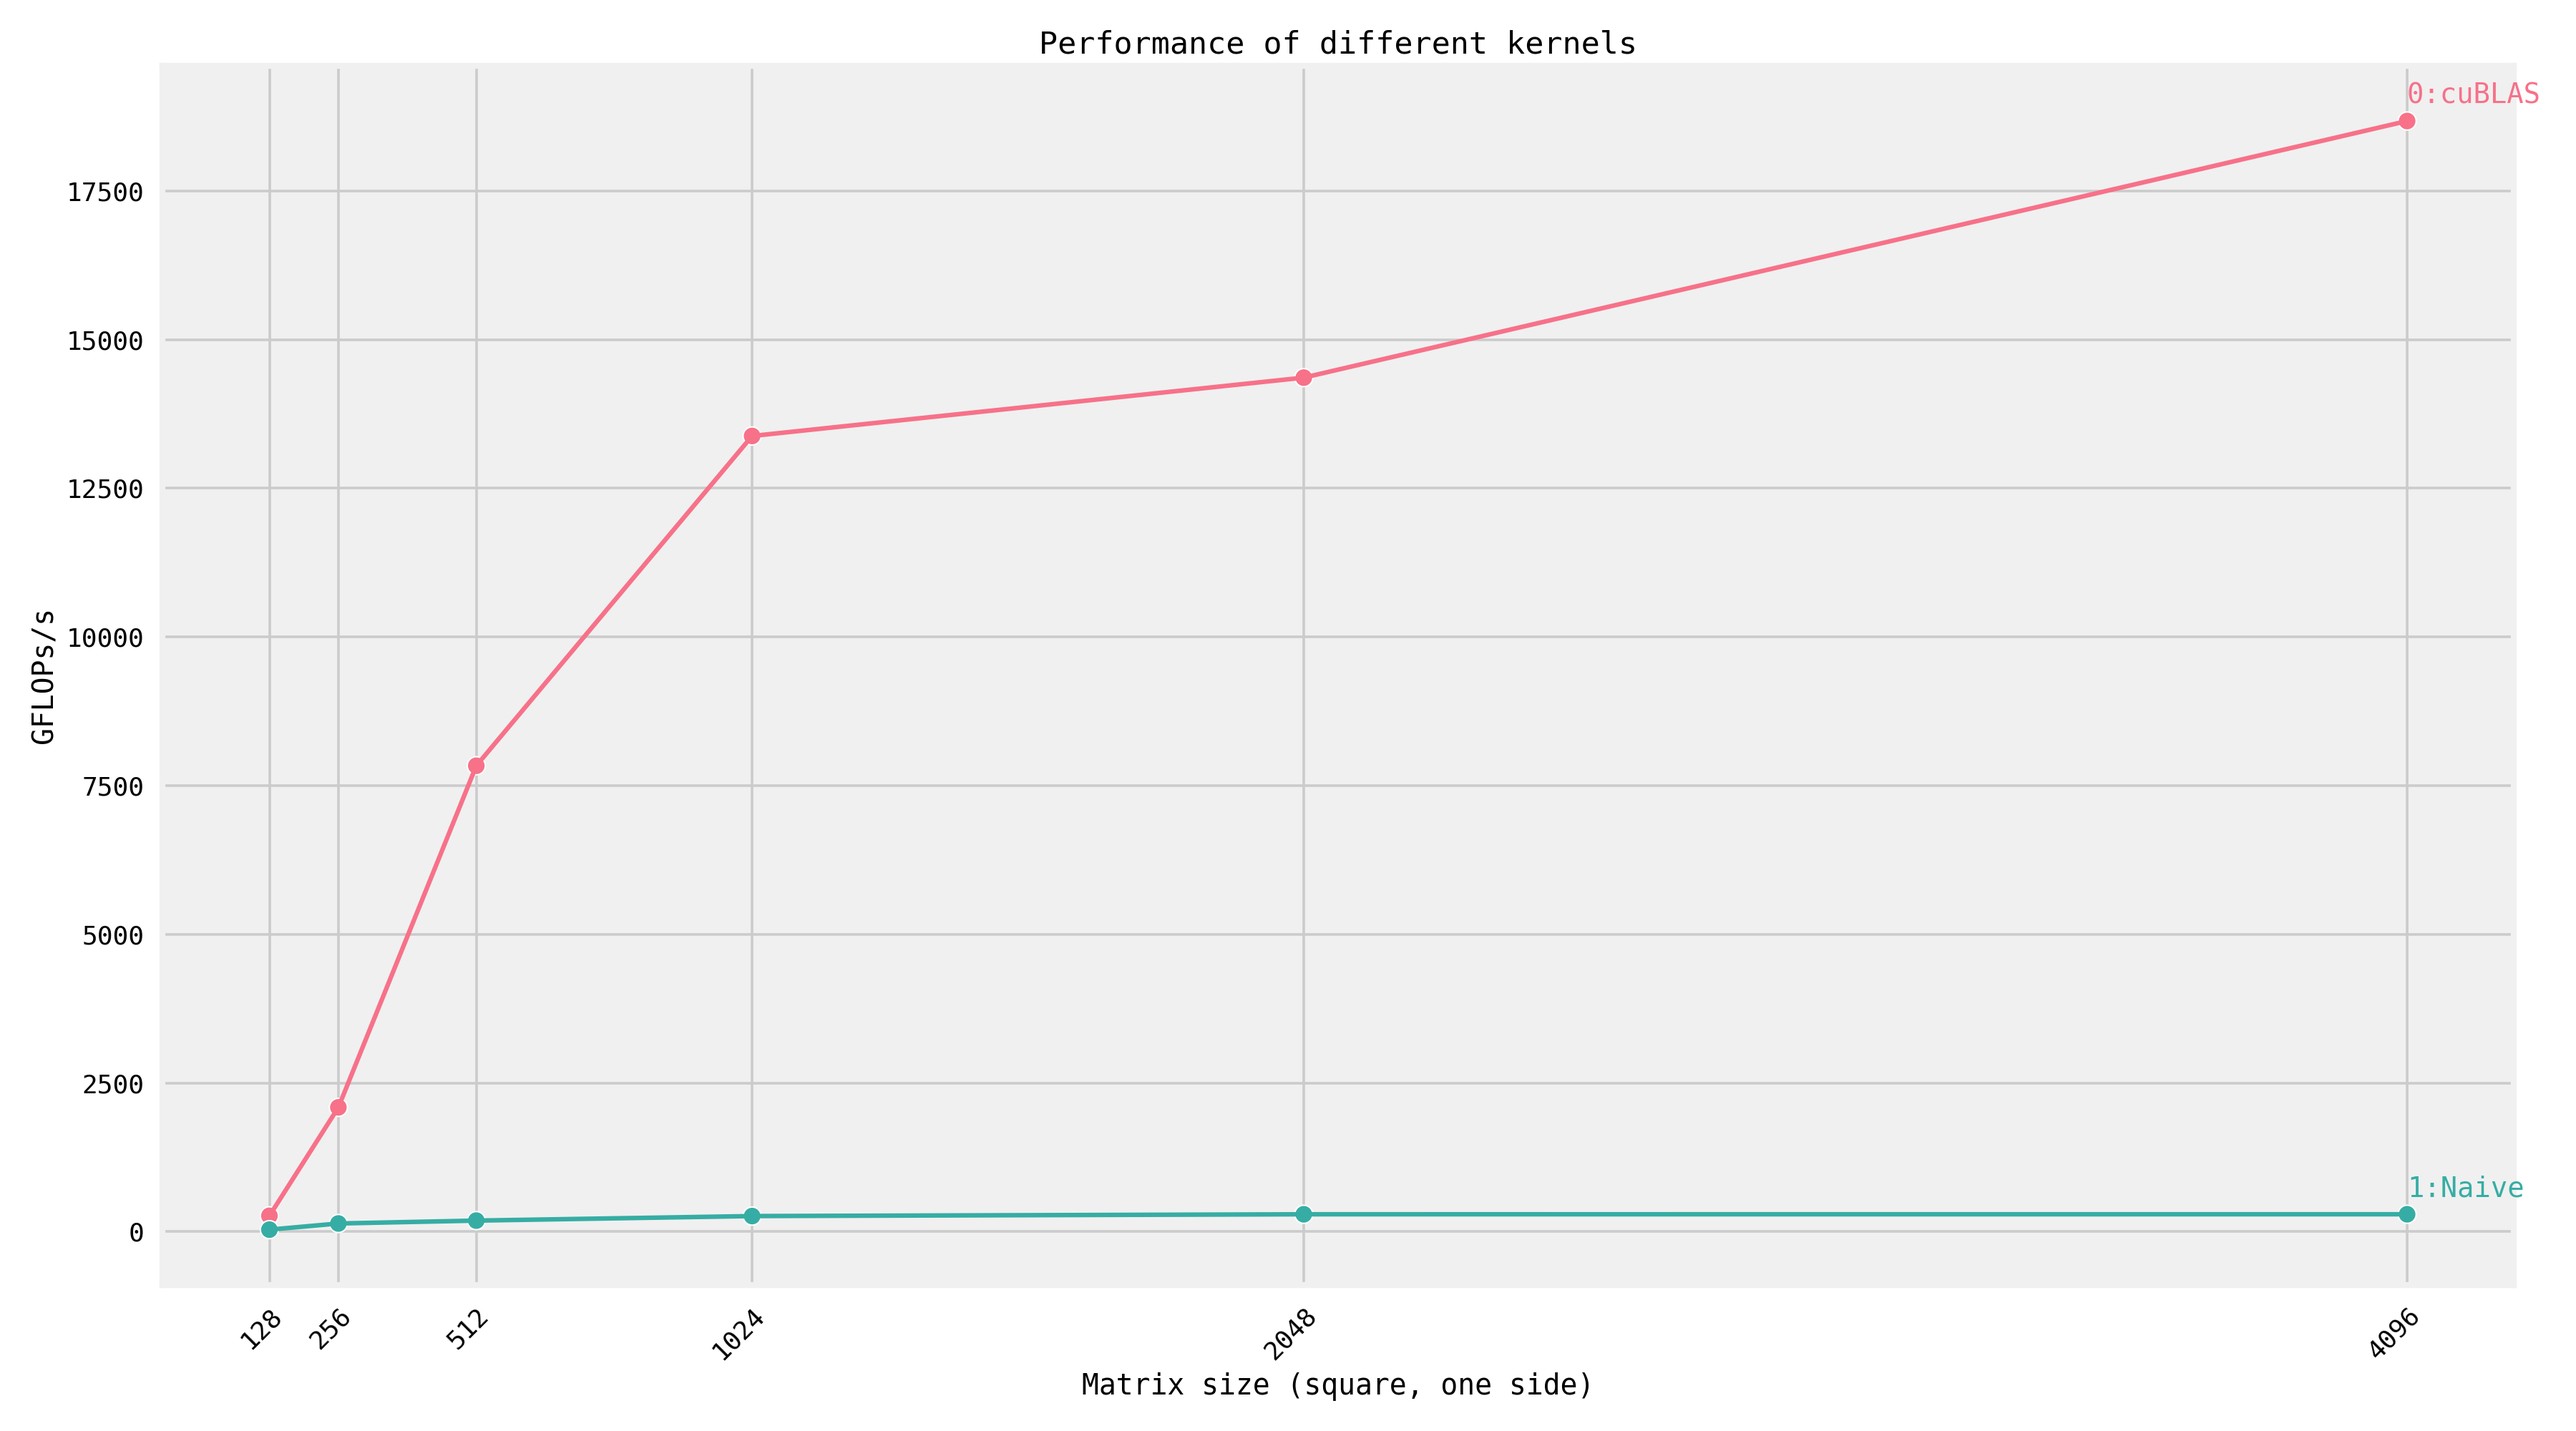
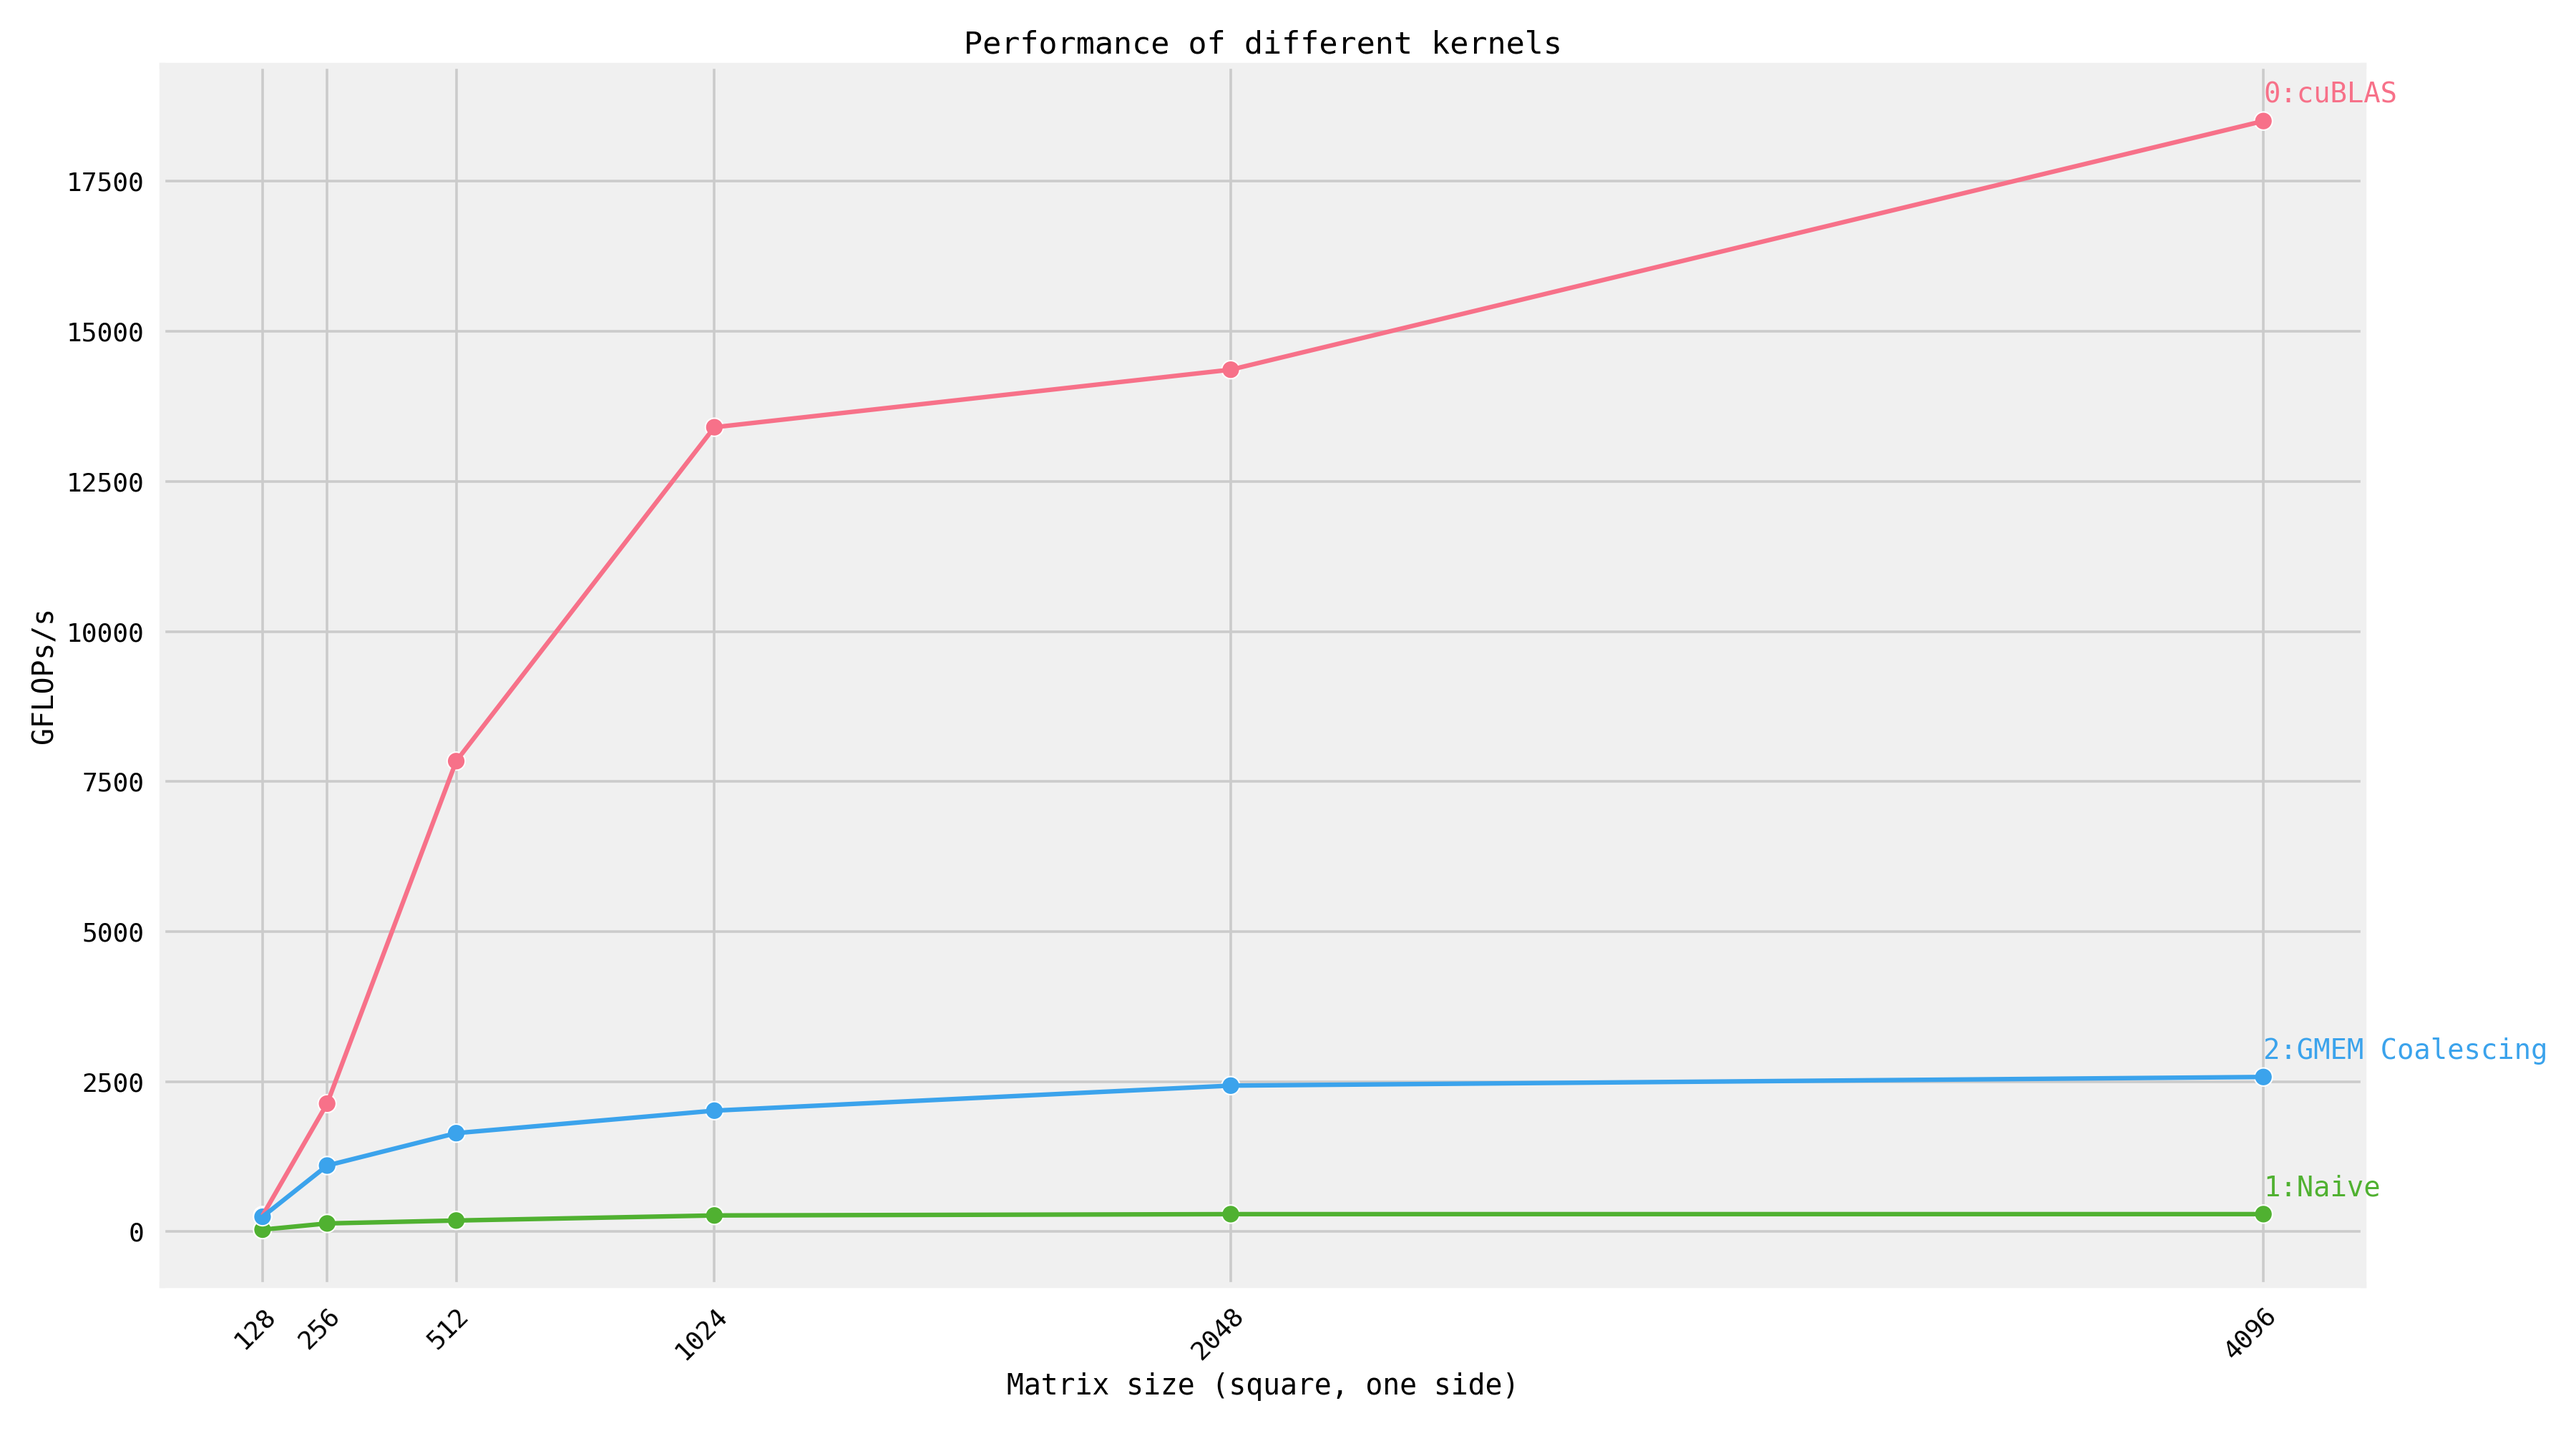
add mem coalesce version

diff --git a/gemm/README.md b/gemm/README.md
@@ -1,4 +1,10 @@
 # Gemm
 
+## 优化流程
+1. 01_naive: baseline实现;
+2. 02_mem_coalesce: 保证每个warp的global memory访问连续;
+    - 参考资料: https://zhuanlan.zhihu.com/p/300785893
+3. 
+
 参考资料：
-- 
+- https://siboehm.com/articles/22/CUDA-MMM
